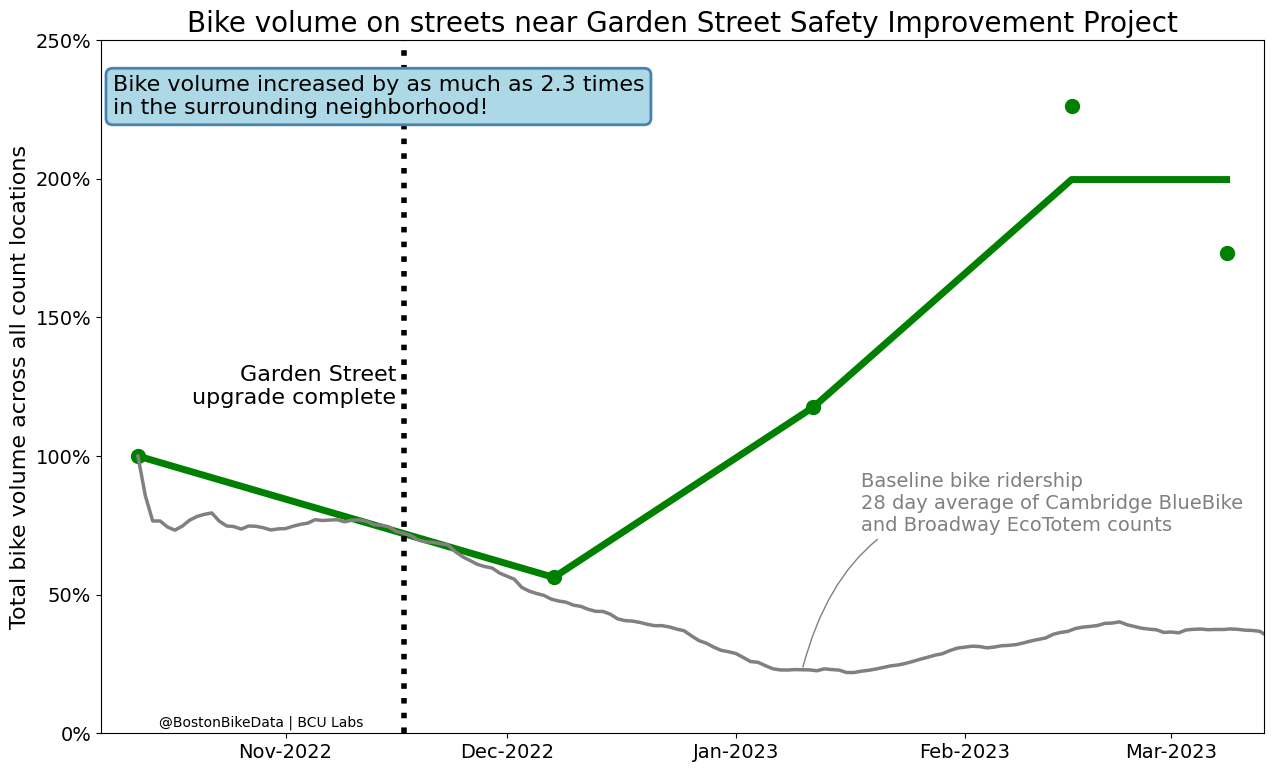
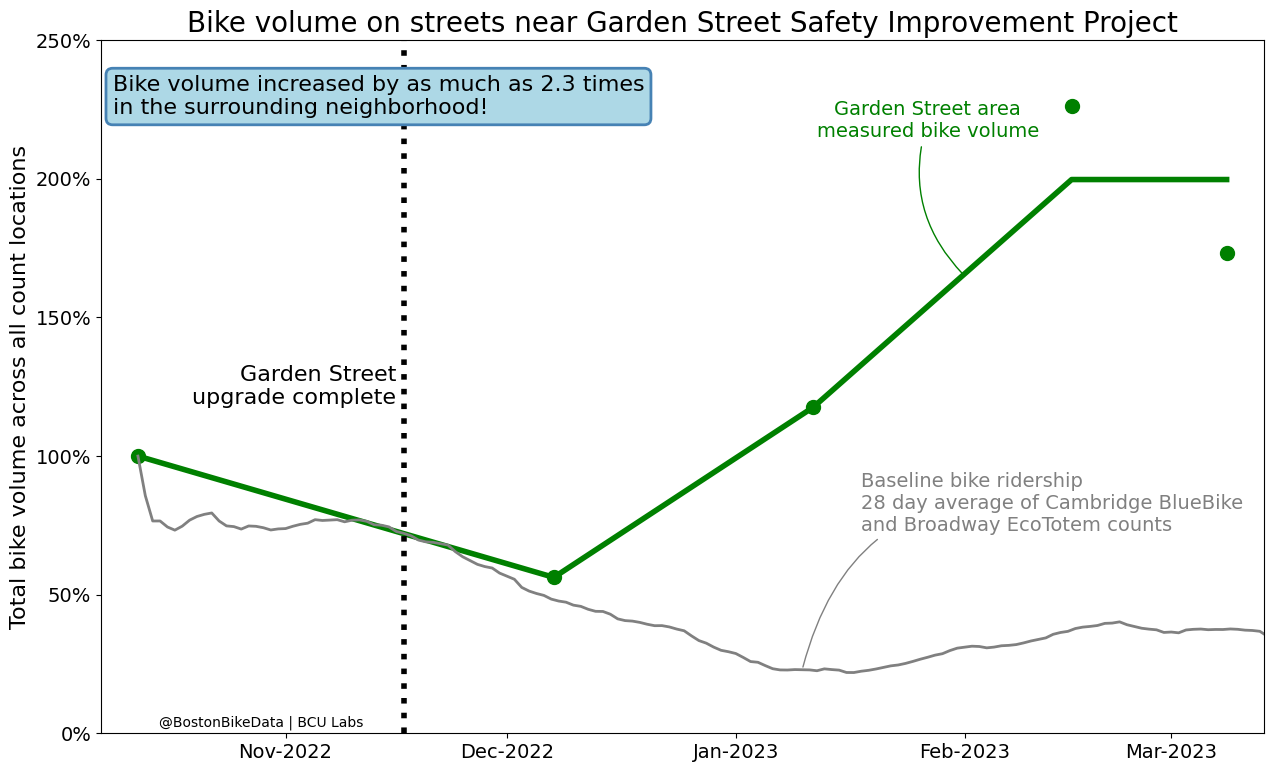
ready for publish

diff --git a/dataSources/garden st/extract_garden_data.py b/dataSources/garden st/extract_garden_data.py
@@ -650,7 +650,7 @@ def plot_bike_volume(dfGrowthSummary, dfDate, dfBB, dfBway, dfBaseline):
     #          markerfacecolor='none', markeredgecolor='g',
     #          linewidth=linewidth,
     #          label='Bike Volume Across all Count Locations')
-    color='g'
+    color='green'
     plt.plot(dfGrowthSummary['Date'], dfGrowthSummary['Volume_Norm_100'],
              marker='o', markersize=markersize,
              markerfacecolor=color, markeredgecolor=color,
@@ -658,6 +658,19 @@ def plot_bike_volume(dfGrowthSummary, dfDate, dfBB, dfBway, dfBaseline):
     plt.plot(dfGrowthSummary['Date'], dfGrowthSummary['Volume_Norm_100'].rolling('56D', center=True).mean(),
              color=color, linewidth=linewidth,
              label='Bike Volume Across all Count Locations')
+    measuredDate = datetime.date(2023,2,1)
+    measuredY = 165
+    ax.annotate('Garden Street area\nmeasured bike volume', 
+                xy=(measuredDate, measuredY), 
+                xytext=(measuredDate - datetime.timedelta(days=5), measuredY+50),
+                horizontalalignment='center',
+                fontsize=14, color=color,
+                arrowprops=dict(facecolor=color, edgecolor=color, 
+                                arrowstyle="-",
+                                connectionstyle="arc3,rad=0.3",
+                                ),
+                transform=ax.get_xaxis_text1_transform(0)[0],
+                )
 
     # # Plot Bluebikes data
     # plt.plot(dfBB['Date'], dfBB['BB_Growth_0'],
@@ -985,14 +998,14 @@ def main():
     #                  dfBB, dfBway, 
     #                  dfBaseline)
 
-    # plot_bike_volume(dfGrowthSummary, dfGardenLoc, 
-    #                  dfBB, dfBway, 
-    #                  dfBaseline)
-    # plot_volume_adjusted(dfGrowthSummary, dfGardenLoc, 
-    #                      dfBB, dfBway, 
-    #                      dfBaseline)
+    plot_bike_volume(dfGrowthSummary, dfGardenLoc, 
+                     dfBB, dfBway, 
+                     dfBaseline)
+    plot_volume_adjusted(dfGrowthSummary, dfGardenLoc, 
+                         dfBB, dfBway, 
+                         dfBaseline)
 
-    plot_bike_growth_map(countLocations, projectArea, dfGardenLoc)
+    # plot_bike_growth_map(countLocations, projectArea, dfGardenLoc)
     # plot_bike_volume_map(countLocations, projectArea, dfGardenLoc)
 
 if __name__ == '__main__':
